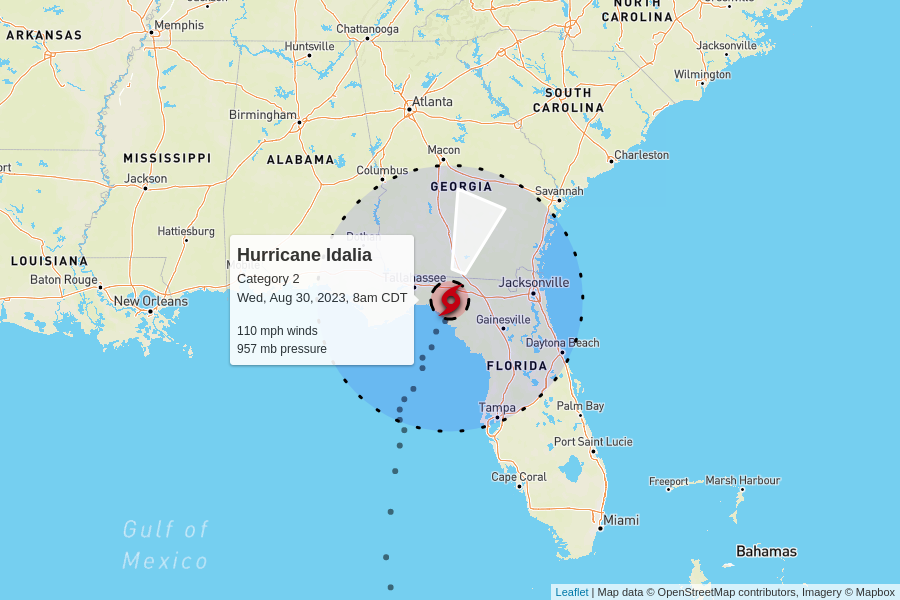
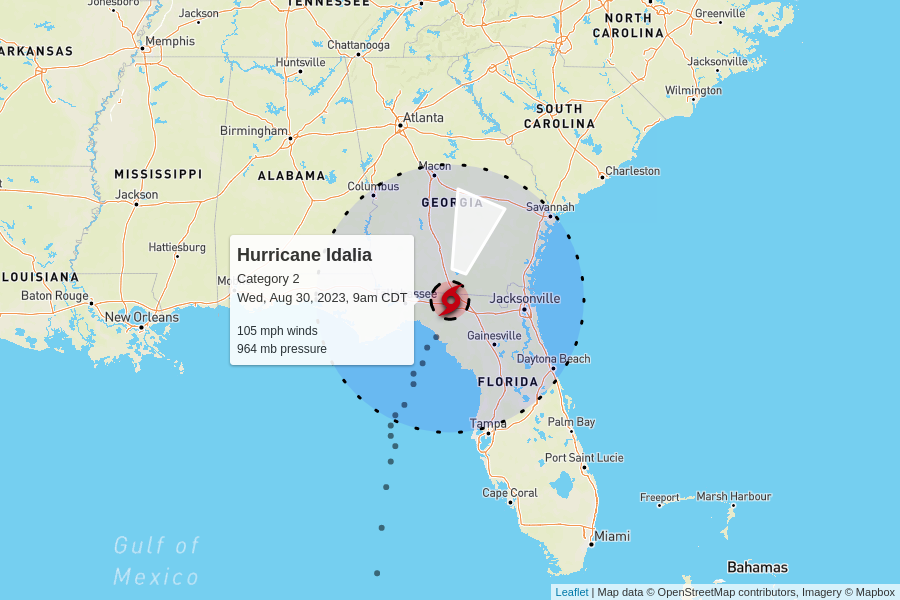
automatic update

diff --git a/docs/index.html b/docs/index.html
@@ -100,7 +100,7 @@
         <td colspan="6" class="storm category-2" >
           <h2>
             Hurricane Idalia - Category 2
-            <p class="updated">last updated <span data-time>2023-08-30T13:00:00.000Z</span></p>
+            <p class="updated">last updated <span data-time>2023-08-30T14:00:00.000Z</span></p>
           </h2>
         </td>
       </tr>
@@ -115,8 +115,8 @@
       </tr>
       <tr>
         <td class="spacer"></td>
-        <td>110 mph</td>
-        <td>957 mb</td>
+        <td>105 mph</td>
+        <td>964 mb</td>
         <td>
           18 mph to the north-northeast
           <br/>
